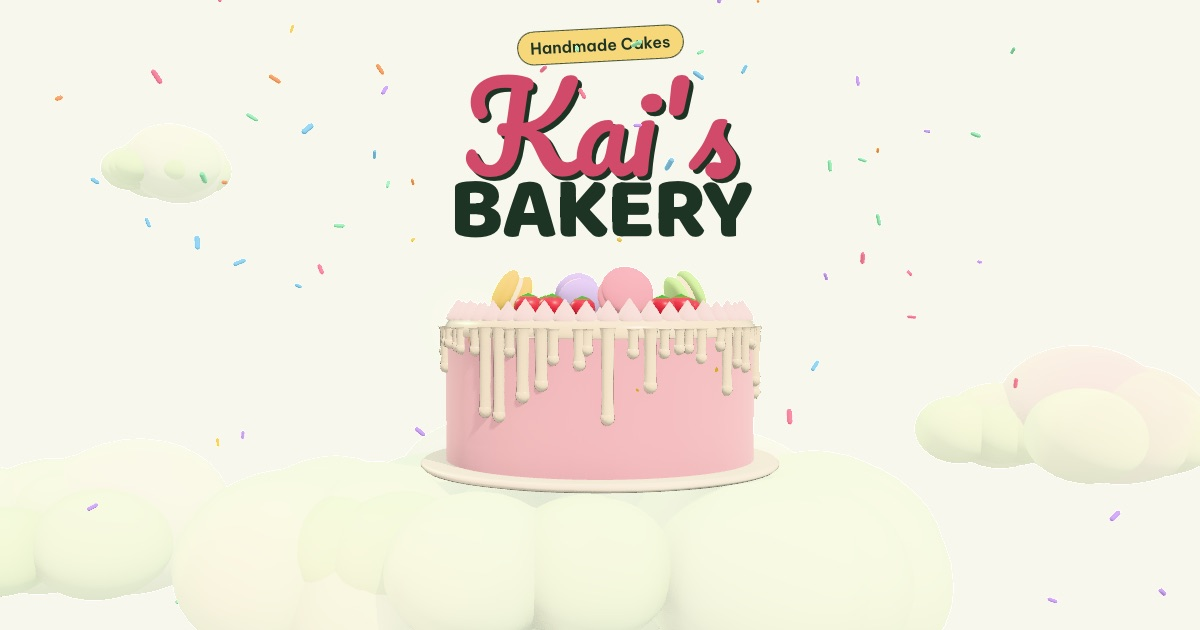
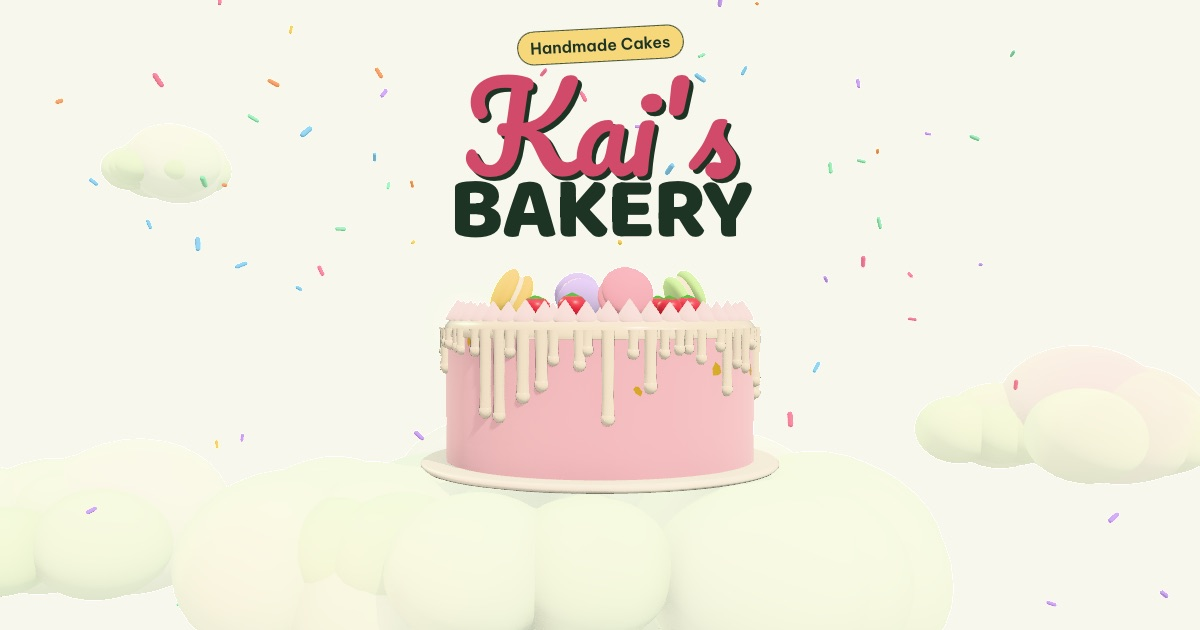
Order screen says "boxed up" once the bow is tied; share images keep sprinkles off the title
- The order screen's title said "Đóng hộp xong" / "Boxed up" the moment it opened, while the box was still a
  flat net with the cake on it. It now says "Đang đóng hộp, chờ xíu nha!" / "Boxing it up, one sec!" while the
  box folds, and the finished title rises in its place when the bow is tied (BoxScene's new onTied). Both lines
  share one grid cell, so nothing below moves. Screen readers get the finished title at once (the heading takes
  focus on arrival; the passing line is aria-hidden). With reduced motion the box starts tied; without WebGL the
  2D drawing stands in and the title is final at once; if the box never gets that far in view, the title stops
  waiting after 12 s.
- The two social previews (public/og/) had sprinkles drifting across the badge and the letters of "Kai's". The
  shot now puts the title above the scene (only in the picture: on the page the cake is drawn over the title), and
  both images are taken again.

Checked: pnpm check (228 unit tests, build); e2e 170 passed, 11 skipped, 1 failed: home.spec.ts:44, "Response
has been disposed" in the test's own route handler while another Playwright suite loaded the machine; 11 of 12
runs of it alone passed. A test order on desktop and an emulated phone: the title changes about 4.4 s after the
order, as the bow lands; with reduced motion as soon as the box shows; no console errors.

diff --git a/src/components/cart/OrderDone.tsx b/src/components/cart/OrderDone.tsx
@@ -1,6 +1,6 @@
 'use client'
 
-import { useEffect, useRef } from 'react'
+import { useEffect, useRef, useState } from 'react'
 import { cakeName, describeCake } from '@/i18n/cake-text'
 import { LocalLink, useDict, useLang } from '@/i18n/LangProvider'
 import { priceOf } from '@/lib/cake'
@@ -20,6 +20,12 @@ export interface PlacedOrder extends Order {
   items: CartItem[]
 }
 
+/**
+ * The title says the box is done only once the bow is tied. If the box never gets that far in view (still loading,
+ * scrolled away so it stops drawing), the title stops waiting after this long.
+ */
+const TITLE_WAIT_MS = 12000
+
 /** The end of checkout: the first cake boxed up in 3D, and a receipt that says plainly nothing was charged. */
 export function OrderDone({ order }: { order: PlacedOrder }) {
   const dict = useDict()
@@ -27,23 +33,47 @@ export function OrderDone({ order }: { order: PlacedOrder }) {
   const t = dict.cart.done
   const heading = useRef<HTMLHeadingElement>(null)
   useEffect(() => heading.current?.focus(), [])
+  const [tied, setTied] = useState(false)
+  useEffect(() => {
+    const timer = window.setTimeout(() => setTied(true), TITLE_WAIT_MS)
+    return () => window.clearTimeout(timer)
+  }, [])
   const count = order.items.reduce((sum, item) => sum + item.quantity, 0)
   const { form, deposit } = order
 
   return (
     <div className="mx-auto grid max-w-7xl gap-8 px-4 pt-20 sm:px-8 lg:grid-cols-[minmax(0,1.3fr)_minmax(340px,1fr)] lg:gap-12 lg:pt-28">
       <div className="sticker h-[52svh] min-h-80 overflow-hidden bg-soft lg:sticky lg:top-28 lg:h-[calc(100svh-9rem)]">
-        <BoxScene config={order.items[0].config} fallback={<BoxLoading />} />
+        <BoxScene config={order.items[0].config} onTied={() => setTied(true)} fallback={<BoxLoading />} />
       </div>
       <div className="space-y-8 self-center pb-10">
         <header className="space-y-3">
           <p className="eyebrow">{t.eyebrow(order.number)}</p>
+          {/*
+            While the box folds, the title says it is being boxed; the finished title lands with the bow, in the
+            same place (both lines share one grid cell, so nothing below moves). Screen readers get the finished
+            title at once: the heading takes focus on arrival.
+          */}
           <h1
             ref={heading}
             tabIndex={-1}
-            className="font-display text-[clamp(2.6rem,6vw,4.4rem)] leading-[1.02] font-extrabold outline-none"
+            className="grid font-display text-[clamp(2.6rem,6vw,4.4rem)] leading-[1.02] font-extrabold outline-none"
           >
-            {t.title} <span className="mark">{t.titleMark[form.method]}</span>
+            <span
+              aria-hidden
+              className={`[grid-area:1/1] transition-[opacity,translate] duration-300 ease-out ${
+                tied ? '-translate-y-2 opacity-0' : ''
+              }`}
+            >
+              {t.boxing} <span className="mark">{t.boxingMark}</span>
+            </span>
+            <span
+              className={`[grid-area:1/1] transition-[opacity,translate] duration-500 ease-out ${
+                tied ? '' : 'translate-y-3 opacity-0'
+              }`}
+            >
+              {t.title} <span className="mark">{t.titleMark[form.method]}</span>
+            </span>
           </h1>
           <p className="text-lg leading-relaxed text-muted">
             {t.waiting(count, form.name)}{' '}

diff --git a/src/components/three/scenes/BoxScene.tsx b/src/components/three/scenes/BoxScene.tsx
@@ -167,7 +167,15 @@ function Bow({ y, bowRef }: { y: number; bowRef: (node: THREE.Group | null) => v
  * `startedAt` lives outside the canvas: when a slow device drops to the light tier the canvas is rebuilt, and
  * the box must carry on where it was instead of unpacking itself and folding up again.
  */
-function FoldingBox({ config, startedAt }: { config: CakeConfig; startedAt: RefObject<number | null> }) {
+function FoldingBox({
+  config,
+  startedAt,
+  onTied,
+}: {
+  config: CakeConfig
+  startedAt: RefObject<number | null>
+  onTied?: () => void
+}) {
   const { scenes } = useDict()
   const { box } = useScene()
   const still = useReducedMotionScene()
@@ -180,6 +188,7 @@ function FoldingBox({ config, startedAt }: { config: CakeConfig; startedAt: RefO
   const sideBands = useRef<(THREE.Group | null)[]>([])
   const bow = useRef<THREE.Group>(null)
   const look = useMemo(() => new THREE.Vector3(), [])
+  const told = useRef(false)
   const rx = W * RIBBON_X
   const rz = W * RIBBON_Z
   // Where the ribbon crosses each face, in that face's frame (front, right, back, left).
@@ -193,6 +202,10 @@ function FoldingBox({ config, startedAt }: { config: CakeConfig; startedAt: RefO
     startedAt.current ??= now
     const t = still ? END : now - startedAt.current
     if (t < END) state.invalidate()
+    else if (!told.current) {
+      told.current = true
+      onTied?.()
+    }
 
     if (cake.current) cake.current.position.y = (1 - settle(range(t, 0, 0.9))) * (H + 0.5)
     folds.current.forEach((pivot, i) => {
@@ -318,7 +331,16 @@ function FoldingBox({ config, startedAt }: { config: CakeConfig; startedAt: RefO
   )
 }
 
-export default function BoxScene({ config, children }: { config: CakeConfig; children?: ReactNode }) {
+export default function BoxScene({
+  config,
+  onTied,
+  children,
+}: {
+  config: CakeConfig
+  /** Called once the bow is tied, or at once when the 2D drawing stands in for the box. */
+  onTied?: () => void
+  children?: ReactNode
+}) {
   const { scenes, cart } = useDict()
   const startedAt = useRef<number | null>(null)
   return (
@@ -328,10 +350,11 @@ export default function BoxScene({ config, children }: { config: CakeConfig; chi
       label={scenes.box}
       poster={cart.done.boxLoading}
       camera={{ position: [0, 3, 7], fov: 32, near: 0.1, far: 60 }}
+      onFallback={onTied}
     >
       <Studio />
       <ShadowBlob radius={boxSize(config).width * 1.05} y={-T} />
-      <FoldingBox config={config} startedAt={startedAt} />
+      <FoldingBox config={config} startedAt={startedAt} onTied={onTied} />
       {/* The box on show turns at the idle pace; while it folds, FoldingBox asks for every frame itself. */}
       <IdlePace />
       {children}

diff --git a/src/i18n/vi/cart.ts b/src/i18n/vi/cart.ts
@@ -203,6 +203,9 @@ export const cart = {
     eyebrow: (number: string) => `Đơn ${number}`,
     title: 'Đóng hộp xong,',
     titleMark: { pickup: 'chờ bạn tới lấy!', delivery: 'chờ ship tới nè!' } satisfies Record<Method, string>,
+    /** Shown while the box is still folding; the title above takes its place once the bow is tied. */
+    boxing: 'Đang đóng hộp,',
+    boxingMark: 'chờ xíu nha!',
     waiting: (count: number, name: string) =>
       count === 1
         ? `Chiếc bánh của ${name} sẽ sẵn sàng lúc`

diff --git a/src/i18n/en/cart.ts b/src/i18n/en/cart.ts
@@ -201,6 +201,8 @@ export const cart: CartDict = {
     eyebrow: (number: string) => `Order ${number}`,
     title: 'Boxed up and',
     titleMark: { pickup: 'ready for you!', delivery: 'ready to ride!' },
+    boxing: 'Boxing it up,',
+    boxingMark: 'one sec!',
     waiting: (count: number, name: string) =>
       count === 1 ? `${name}'s cake will be ready at` : `${name}'s ${count} cakes will be ready at`,
     pickupWhere: 'Pickup at the shop, Thủ Đức area.',

diff --git a/README.md b/README.md
@@ -32,7 +32,8 @@ realistic on purpose, but no order is ever sent and nobody is charged. Every pag
   pickup at the shop or delivery, chips for the next seven open days, time slots in the shop's own time zone,
   lead times, holiday rules and a 50% deposit where the policy needs one. A cake in the cart can be reopened in the
   builder and put back in its own line. It ends with
-  the cake being lowered into a box that folds shut and gets a ribbon.
+  the cake being lowered into a box that folds shut and gets a ribbon; the title says it is boxed up once the bow
+  is tied.
 - **About, policies, FAQ**: the story of the (imaginary) shop and of the project, ordering, payment,
   cancellation, storage and allergy policies, and 13 questions answered.
 
